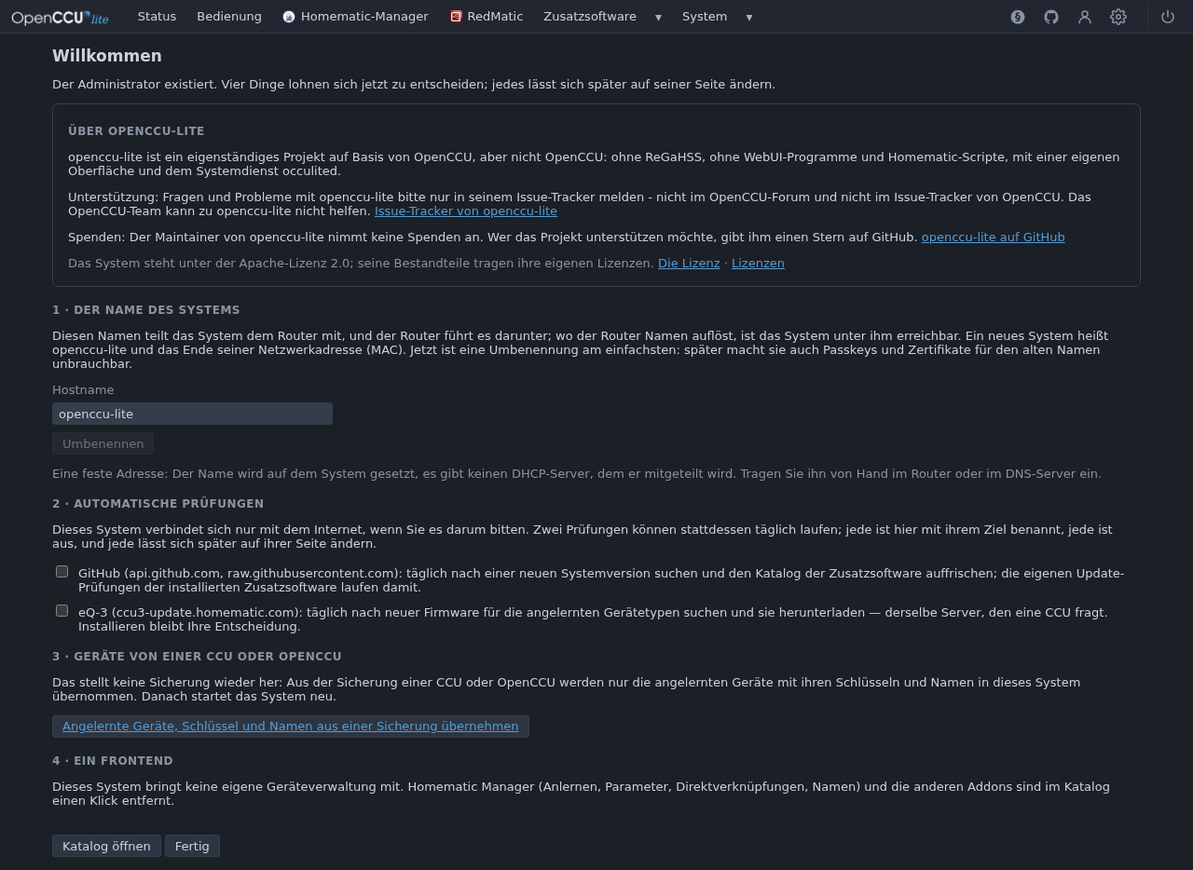
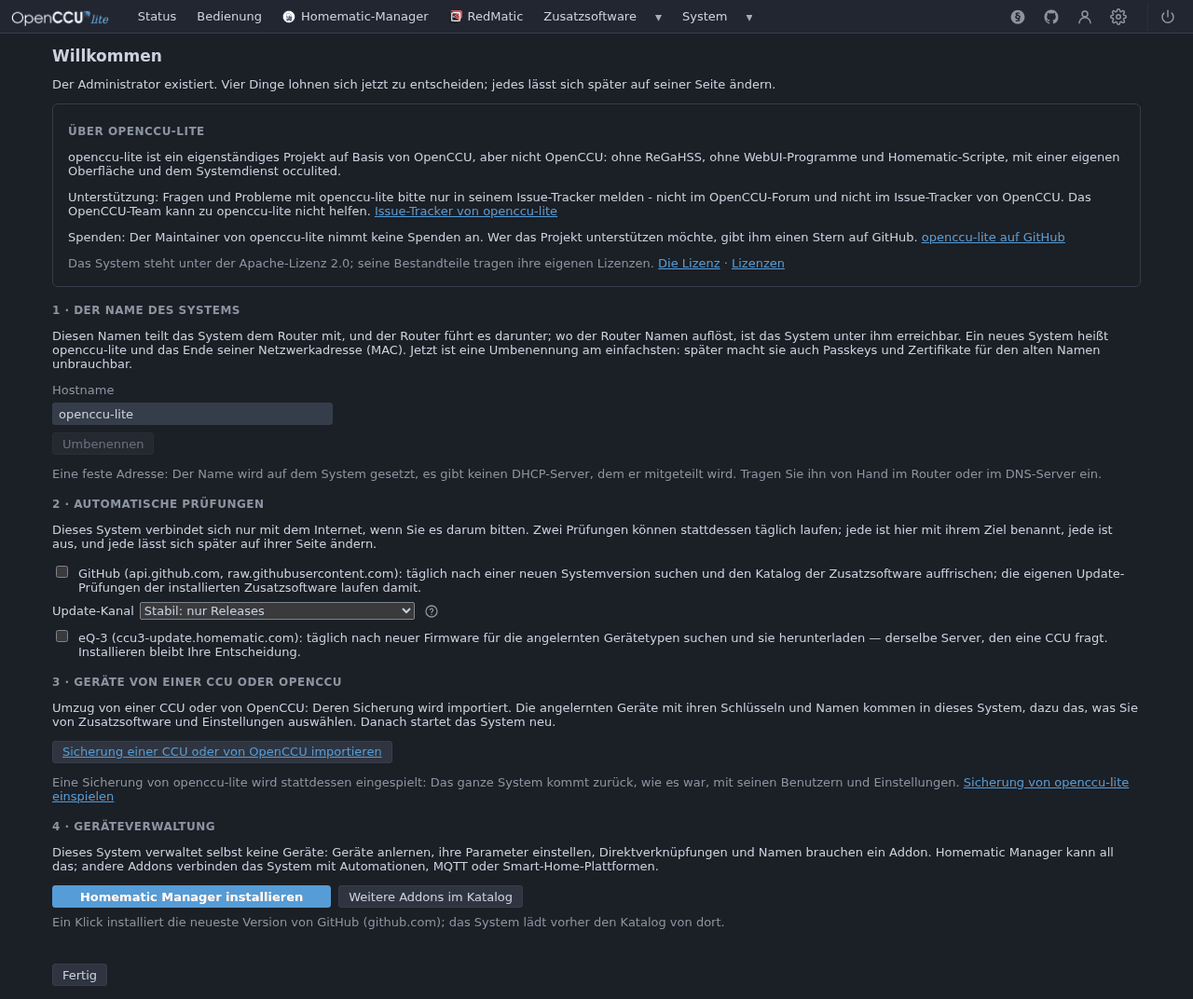
Docs: the switching guide's Loom entry and first-boot journal, the walkthrough's welcome and backup pictures, ?sid= retired, OpenSSL 3.5; the readme's lite-addon-tools (#20, tasks 435, 260, 433, 341, 436)
- switching: an existing Homematic(IP) Local entry (seen with 2.12.3) switched to the
  OpenCCU-Loom daemon backend keeps the direct connection's username and password, and its start
  aborts with "box_token is the only credential behind the box". The guide's Home Assistant part
  says so and how to get out: stop Home Assistant Core, back up .storage/core.config_entries,
  delete the two keys. Reported by @reini12345 in #20. The guide also names the copy of the first
  boot's journal.
- walkthrough: the welcome page with its device-management step (Homematic Manager in one click,
  the catalogue beside it) and the backup page with "Sicherung einspielen oder importieren", shot
  again from the current interface, light and dark.
- security.md, the threat model and the ASVS rows: the API reads no credential from ?sid= since
  1.3.0; what remains by design is the CCU's legacy alias in the URLs of the addons that need it
  and the gate's session id from ?sid= under /addons/ for older shells.
- upstream-delta rows 88 (LITE= in firmware_version), 89 (the first boot's journal), 90 and 91
  (OpenSSL 3.5 LTS, lighttpd's end-of-life check).
- README: lite-addon-tools, the command-line tools addon (tcpdump, nmap, strace, htop and more),
  in the list of openccu-lite addons.

diff --git a/docs/upstream-delta.md b/docs/upstream-delta.md
@@ -141,6 +141,10 @@ rebased ones.
 | 85 | The LAN9514 reset by the kernel and the recovery kernels with the board patches (task 420, 2026-11-02): upstream's **#4598** (`6fb340fc7`: the recovery configs' `BR2_LINUX_KERNEL_PATCH` points at `board/<board>/patches/linux` instead of the `kernel-patches` that exists for no board; ova's dead entry removed) and **#4596** (`1b840c14f`: `board/rpi5/patches/linux/0007` teaches `onboard_usb_dev` the LAN9514, `0008` gives the `bcm2710-rpi-2-b/3-b` hub node `reset-gpios` on LAN_RUN, `CONFIG_USB_ONBOARD_DEV=y` in `board/rpi3/kernel.config`), cherry-picked with `-x`. The only conflict was `board/rpi3/kernel.config` beside lite's `CONFIG_PWM_GPIO` (task 315, the second item 58): both kept. With #4598 the recovery kernels get 0001-0008, among them the dwc_otg bounce (item 53) and the longer usb-storage quirks; task 332's `lite-kernel-patch-check.sh`, which only existed to name the dead path, is retired with its test, the Makefile's call and the workflow steps. Items 54 and 58 follow from #4596. Lab (1.1.0 with the swapped kernel, recovery kernel and DTB): one update through the recovery on each of the two - in the recovery `onboard-usb-dev` bound at 4.30-4.31 s, the hub at 4.92-4.94 s, `eth0` up with a carrier (the kept install log's diagnostics); the boot after it found the hub at once | upstream (cherry-picks); dropped at the next rebase onto an upstream that carries them | upstream `6fb340fc7`, `1b840c14f`; (this commit) |
 | 86 | Two more upstream commits (task 420, 2026-11-02): **`67d44ae59`** qemu-guest-agent 11.1.3 (#4580; the ova) and **`54354e551`** multilib32 out of every recovery fragment (#4224: the recovery's binaries are native, it needs no 32-bit runtime; recovery-system.mk's reuse of the main build's multilib32, which upstream keeps, then does nothing). Since #4224 the recovery builds no copy of multilib32, so item 70's "the recovery's copy of multilib32" no longer applies | upstream (cherry-picks); dropped at the next rebase | upstream `67d44ae59`, `54354e551` |
 | 87 | Kernels (task 423, 2026-11-07): Pi `aarch64-rpi3`/`-rpi4` on raspberrypi/linux `stable_20261103` (`0b41724521c9`, 6.18.60) with firmware `ab5c7f86`, as upstream's #4644 (`90a3bc9b5`; that firmware's `extra/git_hash` is the older rpi-6.18.y commit `9b488bc7a1e9`, upstream took it all the same), the VM kernels on 6.18.62 as #4667 (`5e11b559e`). Not cherry-picked: both commits change upstream's own `rpi3`/`rpi4`/`rpi5` configs, which the fork does not follow (row 84), so the lite configs and the shared hash files take the same lines by hand; the hashes equal upstream's, a download here and, for 6.18.62, kernel.org's `sha256sums.asc`. The eight kernel patches apply to `stable_20261103`. | lite configs on upstream's versions; dropped at the next rebase | upstream `90a3bc9b5`, `5e11b559e`; (this commit) |
+| 88 | A backup names the openccu-lite release (task 433, 2026-11-11): **`overlay/base-openccu/bin/createBackup.sh`** writes `LITE=<version>` after `VERSION=<base>` into the backup's `firmware_version` when `/VERSION` has a non-empty `LITE=` line; without one (upstream) the file is the single line as before. occulited's backup inspection takes it as the kind (openccu-lite, not a CCU backup) and the file's version. The readers take `VERSION=` only: `restoreBackup.sh` sources the file and has no `LITE` of its own, the recovery's `restore_backup.cgi` parses it with `sed`, and upstream's recovery `create_backup.cgi` already writes the whole `/VERSION` there. `scripts/testcases/lite-backup-version-test.sh` | upstreamable (a default-off guard: no `LITE=` line, no change) | (this commit) |
+| 89 | The journal of the first boot after a switch, kept once (task 341, 2026-11-11): `overlay/lite/usr/libexec/occu/lite-first-boot-journal` (`mark`: the CCU's `homematic.regadom` on the userfs and no `regadom-imported.json` of occulited yet; `save`: `journalctl -b 0 -o short-iso-precise`, the first 8 MiB, gzipped to `/usr/local/var/log/first-boot-journal.txt.gz`, below the `.nobackup` `/usr/local/var`), `occu-first-boot-journal.service` (the mark before occulited, the copy at its stop), `occu-first-boot-journal-save.{service,timer}` (30 minutes in), the preset; `scripts/testcases/lite-first-boot-journal-test.sh` (both workflows) | lite-only | (this commit) |
+| 90 | OpenSSL 3.5 LTS (task 436, 2026-11-11): **`buildroot-patches/0023-libopenssl-3.5-lts`** sets buildroot's `package/libopenssl` to **3.5.9** (version and hash) instead of buildroot 2026.08.1's 3.6.5, whose series is out of support since 2026-10-22 (lighttpd 1.4.84's `-tt` warned about it); 3.5 is the long-term support series (to 2030-04-08) with the same 3.x API and soname, and buildroot's two package patches apply unchanged. The image's, the multilib32 and the recovery's builds all take it (the nested builds use the same patched buildroot). No package outside OpenSSL itself references a symbol version newer than `OPENSSL_3.4.0` (checked on the 1.2.1 rpi4 tree) | lite-only; drop it when the buildroot in the `Makefile` carries a supported OpenSSL | (this commit) |
+| 91 | lighttpd's end-of-life warning for every OpenSSL 3.5 patch release (task 436, 2026-11-12): lighttpd 1.4.84 (and its `master`) logs "openssl library version is outdated and has reached end-of-life" from 23 Oct 2026 unless `OPENSSL_VERSION_NUMBER` is 4.0 or later or exactly `0x30500000L` - since OpenSSL 3.0 the number carries the patch release (3.5.9 is `0x30500090L`), so row 90's 3.5.9 still warned. **`buildroot-patches/0024-lighttpd-openssl-3.5-eol`** adds `package/lighttpd/0002-mod_openssl-every-openssl-3.5.x-is-supported.patch` to buildroot's package (not to `board/lite/patches/`: the recovery's nested build has no global patch directory), which compares major and minor only; the image's and the recovery's lighttpd both take it | lite-only, upstreamable to lighttpd; drop it when lighttpd fixes the check | (this commit) |
 
 ## 1. ReGaHss and the WebUI are options of `package/openccu-base`
 

diff --git a/docs/security-asvs.md b/docs/security-asvs.md
@@ -103,7 +103,7 @@ every security bug of the project so far sat on the boundary between the LAN and
 | V7.1 documentation | the session model is written down: lifetime, storage, what ends a session | ✅ | [security.md → Accounts and sign-in](security.md#accounts-and-sign-in) (*Sessions*), the API's session routes in occulited's `docs/system-api.md`, the session store in its `docs/config.md` |
 | V7.2 fundamentals | session ids from a CSPRNG with at least 64 bits of entropy, never derived from the account | ✅ | 130 bits, 26 characters of base32 (`newSID`); the CCU's ten-character `@…@` alias (about 59 bits) is a separate legacy id for the addon CGIs only, never a credential on the API |
 | V7.2 | a fresh id at login (no fixation) | ✅ | every login opens a new session with `newSID()`; the browser cannot bring its own |
-| V7.2 | session ids are not carried in URLs | ⚠ | **Missing:** `?sid=` is still accepted on every API route, for a session id and for a token (`sessionIDs`, `internal/httpapi/auth.go`); the shell passes the legacy alias in the URLs of addons that live by the CCU convention (threat model R9) |
+| V7.2 | session ids are not carried in URLs | ✅ | the API reads no credential from the query string since 1.3.0 (`sessionIDs`, `internal/httpapi/auth.go`: cookies, `Authorization`, the basic-auth password; a request with only a `?sid=` is `401` with a message that names the header); the shell's downloads and the hand-over of a session to a new address go by one-time tickets. **Remaining by design:** the shell passes the session's ten-character legacy *alias* in the URLs of addons that live by the CCU convention, and the gate takes a session id from `?sid=` under `/addons/` for the shells from before task 125 (threat model R9) |
 | V7.2 | session state stored safely on the server | ✅ | `<state>/sessions/sessions.json` 0600 in a 0700 directory of its own, ids kept as SHA-256 only, a `.nobackup` marker so no backup carries a live session; the gate's mirror `/run/occulite/sessions/<sha256 of the id>` |
 | V7.3 timeout | an idle timeout and an absolute lifetime, by a documented risk decision | ✅ | **30 minutes idle, 12 hours absolute** by default (`DefaultIdleTimeout`, `DefaultMaxAge`) — the values ASVS 4.0.3 §3.3.2 named for Level 2, taken as the documented decision for a system that controls a home and may be reachable from the internet. Configurable on System → Users → Authentication → Sessions within 5 min–30 d and 1 h–90 d (`auth.session_idle`, `auth.session_max`), in force at once; the cookies' `Max-Age` follows the lifetime |
 | V7.4 termination | logout ends the session on the server; "log out everywhere" exists; a password change ends the other sessions; removing an account ends its sessions | ✅ | `logout`, `logoutEverywhere`; `SetPassword`, a changed level and `DeleteUser` → `dropSessionsOf`; a change made on the console is taken over at the next request; the shell clears its stored session id at logout |
@@ -180,7 +180,7 @@ every security bug of the project so far sat on the boundary between the LAN and
 | section | the requirement, paraphrased | status | where, and why |
 | --- | --- | --- | --- |
 | V14.1 general | sensitive data is identified and its storage documented | ✅ | the threat model's assets 1–7 with *where* and *who reads it*; [privacy.md](privacy.md) for what leaves the system |
-| V14.2 client side | no sensitive data cached by the browser; no secrets in URLs | ⚠ | **Missing:** `?sid=` still puts credentials into URLs (V7.2). In place: `Cache-Control: private, no-cache` on every answer that sets none of its own, `no-store` on the API's secrets, `immutable` only on content-hashed assets; the key sheet keeps keys in the page's memory only; the login form has the `autocomplete` a password manager expects |
+| V14.2 client side | no sensitive data cached by the browser; no secrets in URLs | ✅ | no credential in a URL on the API since 1.3.0 (V7.2); the legacy alias in addon URLs remains by design (R9). In place: `Cache-Control: private, no-cache` on every answer that sets none of its own, `no-store` on the API's secrets, `immutable` only on content-hashed assets; the key sheet keeps keys in the page's memory only; the login form has the `autocomplete` a password manager expects |
 | V14.3 server side | backups carry only what a restore needs; live sessions and the backup key stay out; encryption is available | ⚠ | **Accepted:** an unencrypted backup carries the radio keys (R6), the OIDC client secret, the ACME account key and DNS credentials, the backup targets' credentials and the account hashes — a backup is as sensitive as the system, and the Status page warns about an unencrypted backup target. `.nobackup` on the session store, the backup identity and the caches; encrypted backups on request |
 | V14.3 | what is read from another component's storage is the minimum | ✅ | the helper's `ReadPaths` are exact files (`internal/priv/proto.go`): the regadom, `netconfig`, `rfd.conf`/`hs485d.conf` (the gateway keys never reach an answer), `hmip_user.conf` (local key mode), `sgtin.map` (a key only through the confirmed key sheet), `classic-rpc.htpasswd`, `wpa_supplicant.conf` (the page lists SSIDs); hmipserver's `*.ap`, `*.apkx`, `*.bbkx`, `*.dev` for local key mode's snapshot; `/etc/config/shadow` is deliberately not on it |
 

diff --git a/docs/threat-model.md b/docs/threat-model.md
@@ -206,7 +206,8 @@ token, which every program on the system can read.
 scopes, an expiry and an address range; the confirmations named under A4, which a stolen session alone does not pass.
 
 **Weakest point:** a token is a bearer credential. Its scopes and its address range are the only thing that limits
-it, and `?sid=` — on the API, and the CCU's legacy alias in addon URLs — puts a credential into a link.
+it, and the CCU's legacy alias in addon URLs puts an alias of the session into a link (the API itself reads no
+credential from a URL since 1.3.0, R9).
 
 ### A6 · An attacker from the internet
 
@@ -672,7 +673,7 @@ Known, accepted for now, and written down so that nobody has to rediscover them.
 | R6 | **The keys are in clear on the storage and in every unencrypted backup** | hmipserver needs them that way; a backup has to restore them | Nothing short of a change in hmipserver; encrypted backups cover the backup alone |
 | R7 | **Physical access ends everything** (A8) | Out of scope; full-disk encryption is not part of the product | Encrypted storage with a key that is not on the same card |
 | R8 | **Classic RPC has no real authentication** | It is the CCU's protocol, and compatibility is the point of it | Nothing, within compatibility: it stays a switch that is off by default (on after the switch from an OpenCCU whose firewall opened the XMLRPC ports, or after an import with classic RPC ticked), with the warnings on its page and on the Status page; lite-rpc is the authenticated alternative |
-| R9 | **`?sid=` puts a credential in a URL**: the API still accepts a session id or a token there, and the CCU's legacy alias goes into the URLs of addons that need it | The CCU addon convention needs the alias; the API's acceptance is to be narrowed to where a header cannot be sent | The API's `?sid=` narrowed; the alias only for addons that still need it |
+| R9 | **The CCU's legacy alias goes into the URLs of addons that need it**: an alias of the session, under `/addons/` alone, which the API refuses everywhere. The API's own `?sid=` is gone since 1.3.0 — no route reads a session id or a token from the query string, a request with only a `?sid=` is `401` with a message that names the header; the gate still takes a session id from `?sid=` under `/addons/` for the shells from before task 125 | The CCU addon convention needs the alias | The alias only for addons that still need it; the gate's session id from `?sid=` retired once no shell sends it |
 | R10 | **An ingress addon vouches for its peers' addresses** (B1b, B5c): whatever runs as `addon-<id>` can claim any address inside the ranges its manifest declared — another of its own peers, say — though never the loopback or a LAN address | The addon is the end of the tunnel, so nothing else knows the peer's address; the socket's directory keeps every other addon out, and the addon runs confined | The tunnel in the kernel with the address on an interface, where the kernel vouches for the source |
 | R11 | **No second factor of the system's own**: a passkey is an alternative login, and the password alone still opens a session | A decision for a household system; an identity provider brings its own second factor | A second factor (TOTP, or passkeys required) as an option |
 | R12 | **An addon's command names reach an interactive root shell** (B5d, `runtime.bin`): a name only the addon has - `htop`, say - runs the root-owned file the addon's package installed; and an addon process that held a file in its bin directory open for writing before the walk keeps that descriptor | The files are the package's, as trusted as the install, which runs `update_script` as root; nothing its user makes later is taken over, the directory is appended (no system command is shadowed) and interactive shells only; the walk before a start runs with the unit's processes ended | The tools in a directory outside the addon's tree, copied there by root at the install |

diff --git a/docs/walkthrough/README.md b/docs/walkthrough/README.md
@@ -7,7 +7,7 @@ Zusatzsoftware mit dem Homematic Manager und zuletzt Namen, Räume und Gewerke. 
 Englisch verfügbar und hat ein helles und ein dunkles Design (Einstellungen → Design, oder wie das Betriebssystem es
 vorgibt). Jedes Bild gibt es in beiden Designs: Ihr Browser zeigt das, das zu seiner eigenen Einstellung passt.
 
-Die Bilder zeigen die Version `1.0.0-rc.0`. Die meisten sind mit erfundenen Beispieldaten entstanden: Namen, Adressen
+Die Bilder zeigen die Version `1.0.0-rc.0`, die Willkommensseite und die Seite Sicherung den Stand nach `1.2.1`. Die meisten sind mit erfundenen Beispieldaten entstanden: Namen, Adressen
 (`192.0.2.x`, `198.51.100.x`, `2001:db8::`), Seriennummern und Geräte gibt es so nicht; Seriennummern, Geräteadressen
 und SGTINs sind zusätzlich mit `X` unkenntlich gemacht. Der Homematic Manager läuft dabei mit seinen eigenen
 Beispieldaten. Von echten Systemen stammen die Lizenzen-Seite, der Startablauf und die Beispiele für
@@ -50,9 +50,11 @@ Dinge, die sich später jederzeit auf ihrer eigenen Seite ändern lassen:
    Gerät angelernt ist. Eine Sicherung von openccu-lite wird dagegen eingespielt („Sicherung von openccu-lite
    einspielen“): das ganze System kommt zurück, wie es war. Wenn Sie OpenCCU an Ort und Stelle gewechselt haben, sind
    die Geräte schon da und die Namen werden beim ersten Start übernommen, siehe [switching.de.md](../switching.de.md).
-   Das Bild oben zeigt diesen Schritt noch in einer früheren Fassung.
-4. **Ein Frontend.** openccu-lite bringt keine eigene Geräteverwaltung mit; der Homematic Manager (Anlernen,
-   Parameter, Direktverknüpfungen, Namen) und die anderen Addons sind im Katalog einen Klick entfernt.
+4. **Geräteverwaltung.** openccu-lite verwaltet selbst keine Geräte: Anlernen, Parameter, Direktverknüpfungen und
+   Namen brauchen ein Addon. „Homematic Manager installieren“ installiert ihn mit einem Klick aus dem Katalog, ohne die
+   Seite zu verlassen; dafür lädt das System den Katalog und die neueste Version von GitHub. Ist er schon installiert
+   (etwa nach dem Einspielen einer Sicherung), öffnet der Knopf ihn. „Weitere Addons im Katalog“ führt zu den übrigen
+   Addons.
 
 ## Anmeldung
 
@@ -366,8 +368,8 @@ oder den Verlauf.
   mit ihren Schlüsseln und die Namen, Räume und Gewerke, auf Wunsch Addons, die Adresse des HB-RF-ETH, Hostname,
   Syslog-Server und klassisches RPC. Vorher sagt die Seite, wenn die HmIP-Identität der Sicherung zu einem anderen
   Funkmodul gehört (hmipserver übernimmt sie beim Start auf das Modul dieses Systems; die Seite Schnittstellen zeigt
-  danach, wie es ausging) und wenn die Sicherung einen eigenen BidCos-Sicherheitsschlüssel hat (er kommt so mit). Das
-  Bild oben zeigt diesen Abschnitt noch in seiner früheren Fassung mit zwei Knöpfen; die Einzelheiten stehen in
+  danach, wie es ausging) und wenn die Sicherung einen eigenen BidCos-Sicherheitsschlüssel hat (er kommt so mit). Die
+  Knöpfe erscheinen erst, wenn eine Datei geprüft ist; die Einzelheiten stehen in
   [switching.de.md](../switching.de.md#geräte-in-eine-neuinstallation-übernehmen).
 - **Werkseinstellungen:** alles löschen und neu mit der Einrichtungsseite beginnen.
 

diff --git a/docs/switching.md b/docs/switching.md
@@ -193,6 +193,12 @@ Before a restore or an import the Backup page also judges the backup's HmIP secu
 - **Other CCU remnants are removed once, at the first start:** the configuration directories of addons that are no
   longer installed (`/usr/local/etc/config/addons/<id>`, e.g. CloudMatic's `mh`), the ReGa's crash dump
   `homematic.regadom.err` and an empty `eQ-3-Backup`. Each is logged with its path and size (`ccu remnants: removed`).
+- **The first start's log is kept:** the journal of the first boot after the switch - the import, the addon checks,
+  the first starts of the radios - is copied once to `/usr/local/var/log/first-boot-journal.txt.gz` (text, gzipped, at
+  most its first 8 MiB), 30 minutes into that boot or when the system is shut down before then. It is in no backup and
+  stays until you delete it. Where the journal is kept in RAM (the default on a Raspberry Pi or a CCU3), everything
+  else is lost at a reboot; the Status page says so, and the Log page's journal settings keep it on the userfs, a USB
+  stick or a network share.
 
 Everything removed on the first start is in the CCU backup taken before the switch: **that backup is the way back.**
 
@@ -220,6 +226,11 @@ Programs elsewhere on the network that talked to the CCU keep its devices, but l
   does not have. It connects through [OpenCCU-Loom](https://github.com/SukramJ/openccu-loom), as an addon on
   the system (in the addon catalogue) or running elsewhere, with the integration's backend *OpenCCU-Loom daemon*,
   marked Beta in version 2.12.4.
+  An existing entry of the integration (seen with 2.12.3) that is switched to this backend keeps the old direct
+  connection's `username` and `password`, and its start then aborts with
+  `box_token is the only credential behind the box`. The way out: stop Home Assistant Core, make a copy of
+  `.storage/core.config_entries`, delete the two keys `username` and `password` from the integration's entry, and
+  start Home Assistant again. This is the integration's behaviour; newer versions may handle it differently.
 - **ioBroker:** [ioBroker.hm-rpc](https://github.com/ioBroker/ioBroker.hm-rpc) connects to the interface processes
   as to a CCU, through classic RPC (above).
 - **Whatever needs the ReGa does not work:** system variables, programs, HM-Script, the WebUI's JSON-RPC API

diff --git a/docs/security.md b/docs/security.md
@@ -162,8 +162,10 @@ breached passwords ([security-asvs.md](security-asvs.md) V6.2 says why).
   `auth:admin`, the RPC tiers `rpc:read` … `rpc:admin`, or Full access (`*`) — and optionally an expiry and the
   address ranges it may come from. The route table and what each scope opens are in
   [system-api.md → Scopes](https://github.com/hobbyquaker/occulited/blob/master/docs/system-api.md#scopes). A token
-  is sent as `Authorization: Bearer`, as the password of HTTP basic authentication (for XML-RPC libraries), or as
-  `?sid=` (see [Known gaps](#known-gaps)).
+  is sent as `Authorization: Bearer` or as the password of HTTP basic authentication (for XML-RPC libraries) — **never
+  in the URL**: since 1.3.0 the API reads no credential from `?sid=`, neither a token nor a session id, and answers
+  such a request `401` with a message that names the header. `?sid=` lives on under `/addons/` alone, where the gate
+  takes the session id and the CCU's legacy alias for the addon pages that need it.
 - **The local token** `/usr/local/etc/occulite/local-token` is world-readable on purpose: every program on the system
   may read names and rooms with it. It holds **`meta:read` alone**.
 - **An addon's own token** comes from its manifest's `runtime.api_scopes`: minted at every start into
@@ -383,8 +385,8 @@ accepted and what would remove it.
 - **Addon pages share the shell's origin** (R1); a malicious addon page acts with the user's rights.
 - **The interface daemons' loopback ports have no authentication** (R2): every addon reaches the devices.
 - **Classic RPC has no real authentication** when you switch it on (R8).
-- **`?sid=` puts a credential in a URL**: the API still takes a session id or a token as `?sid=`, and the CCU's legacy
-  alias in addon URLs is on for the addons that need it (R9).
+- **The CCU's legacy alias in addon URLs** is on for the addons that need it (R9): a short-lived alias of the session,
+  under `/addons/` alone, which the API refuses everywhere. The API itself takes no credential from a URL since 1.3.0.
 - **No second factor** of the system's own: passkeys are an alternative login.
 - **No quota** for an addon (R5), and **no AppArmor** profiles.
 - **lighttpd does not refuse invalid UTF-8 in a URL**; control characters it does.

diff --git a/docs/switching.de.md b/docs/switching.de.md
@@ -238,6 +238,12 @@ lieferte.
   nicht hat. Die Integration verbindet sich über
   [OpenCCU-Loom](https://github.com/SukramJ/openccu-loom), als Addon auf dem System (im Addon-Katalog) oder anderswo
   laufend, mit ihrem Backend *OpenCCU-Loom daemon*, in Version 2.12.4 als Beta gekennzeichnet.
+  Wer einen bestehenden Eintrag der Integration (gesehen mit 2.12.3) auf dieses Backend umstellt, behält darin
+  `username` und `password` der alten Direktverbindung; der Start bricht dann mit
+  `box_token is the only credential behind the box` ab. Abhilfe: Home Assistant Core anhalten, eine Kopie von
+  `.storage/core.config_entries` anlegen, im Eintrag der Integration die beiden Schlüssel `username` und `password`
+  löschen und Home Assistant wieder starten. Das ist ein Verhalten der Integration; neuere Versionen können es
+  anders handhaben.
 - **ioBroker:** [ioBroker.hm-rpc](https://github.com/ioBroker/ioBroker.hm-rpc) verbindet sich mit den
   Schnittstellenprozessen wie mit einer CCU, über klassisches RPC (oben).
 - **Was die ReGa braucht, geht nicht:** Systemvariablen, Programme, HM-Script, die JSON-RPC-API der WebUI

diff --git a/README.md b/README.md
@@ -80,6 +80,8 @@ Diese Addons lassen sich nicht auf einer CCU3 oder auf OpenCCU installieren.
   -Schnittstellen, Traps
 - [lite-addon-tailscale](https://github.com/hobbyquaker/lite-addon-tailscale) - Fernzugriff auf das System über ein
   Tailscale-Netz, auch mit eigenem Headscale
+- [lite-addon-tools](https://github.com/hobbyquaker/lite-addon-tools) - Werkzeuge für die Fehlersuche und Verwaltung auf
+  der Kommandozeile (SSH): tcpdump, nmap, strace, htop, mtr, socat, tmux, nano u. a.
 - [lite-addon-wireguard](https://github.com/hobbyquaker/lite-addon-wireguard) - Fernzugriff auf das System per
   WireGuard-VPN
 

diff --git a/README.en.md b/README.en.md
@@ -79,6 +79,8 @@ These addons cannot be installed on a CCU3 or on OpenCCU.
   and interfaces, traps
 - [lite-addon-tailscale](https://github.com/hobbyquaker/lite-addon-tailscale) - remote access to the system over a
   Tailscale network, also with your own Headscale
+- [lite-addon-tools](https://github.com/hobbyquaker/lite-addon-tools) - debugging and admin tools for the command line
+  (SSH): tcpdump, nmap, strace, htop, mtr, socat, tmux, nano and more
 - [lite-addon-wireguard](https://github.com/hobbyquaker/lite-addon-wireguard) - remote access to the system over a
   WireGuard VPN
 
